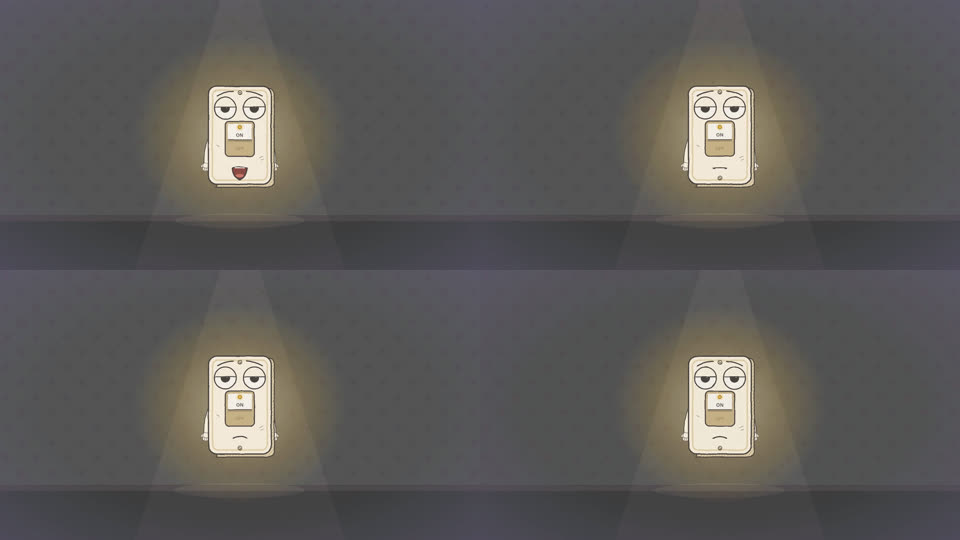
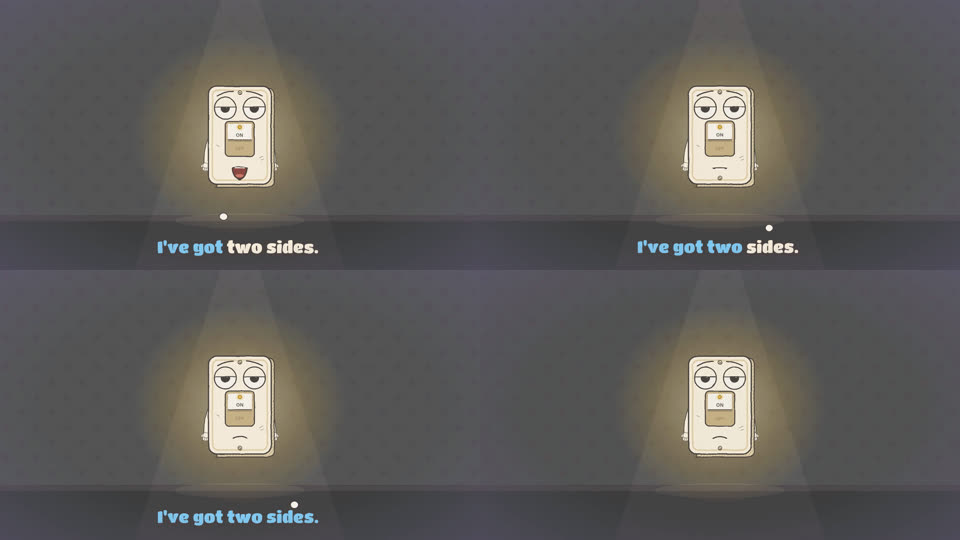
Re-render with the search citation and Switch's karaoke; full cut and first short (sync verified)
Claude-Session: https://claude.ai/code/session_01U1tVYjDQe516Mp7MHbmFPv

Changed region(s): [[0.1562, 0.9185, 0.3438, 0.9778], [0.6562, 0.4444, 0.8438, 0.4741], [0.1562, 0.4444, 0.3438, 0.4741]]

diff --git a/log/renders.md b/log/renders.md
@@ -138,3 +138,9 @@ Every render: timestamp, shot ID, composition, props, commit hash, output, conta
 - **Compositions:** `Sec11-Outroandreveal` from 6b335d1 (S65–S66 from `edit/S65_suno.mp4`, `S66_suno.mp4`, `S66_logic.mp4`, `scripts/s65_s66_clips.sh`); `scripts/assemble.sh`; the sending copy at CRF 29.
 - **Checks:** 11,128 frames; sync −0.0001 s / 0.0000 s / 0.0000 s at 30 s, 150 s and 245 s. In the render: the cuts S64→S65 on 7232, S65→S66 on 7282, S66→S67 on 7346; the Suno page, then the split with Logic's playhead short of the clicks.
 - **Outputs:** `renders/m4/sec11_outro.mp4`, `renders/m4/m4_full.mp4`, `renders/m4/review/m4_full_review_720p.mp4`, `_send.mp4` (25.7 MB), contact sheets in `review/`. Superseded: `archive/renders/m5_sound_card_2026-11-09/`.
+
+## 2026-11-10T01:03 — Sections 2, 3, 4, 5, 7, 11 with the search citation and Switch's karaoke; the full cut; the first short
+
+- **Compositions:** `Sec02-Verse1`, `Sec03-Prechorus1`, `Sec04-Chorus1`, `Sec05-Lesson`, `Sec07-Prechorus2andChorus2`, `Sec11-Outroandreveal` from ce0a3dd (the citation on S05–S08; Switch's sung lines in bold karaoke); the other sections as before. `scripts/assemble.sh`; the sending copy at CRF 29; `Vertical` → `deliverables/vertical.mp4`.
+- **Checks:** 11,128 frames; sync −0.0001 s / 0.0000 s / 0.0000 s at 30 s, 150 s and 245 s. In the render: V02 above the citation in S07, the pre-chorus on the night set, both "on, on, on" tags on the wallpaper, V18 in S61; the first short carries the karaoke in its picture.
+- **Outputs:** the six sections, `renders/m4/m4_full.mp4`, `renders/m4/review/m4_full_review_720p.mp4` and `_send.mp4` (26.1 MB), `deliverables/vertical.mp4` (10.8 MB), contact sheets in `review/`. Superseded: `archive/renders/m5_s65_real_2026-11-10/` and `archive/renders/m5_karaoke_v1_partial_2026-11-10/`.
